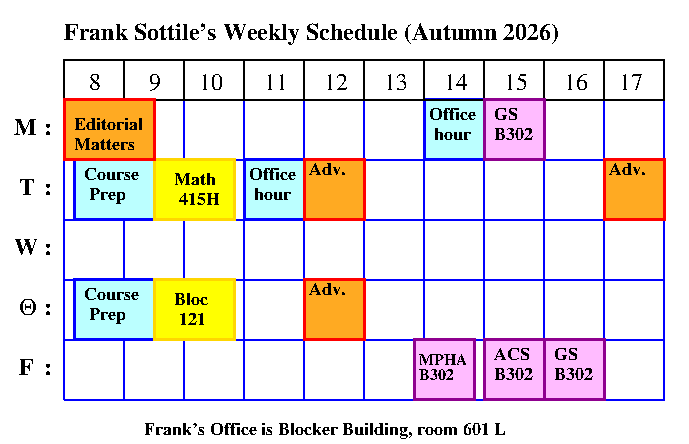
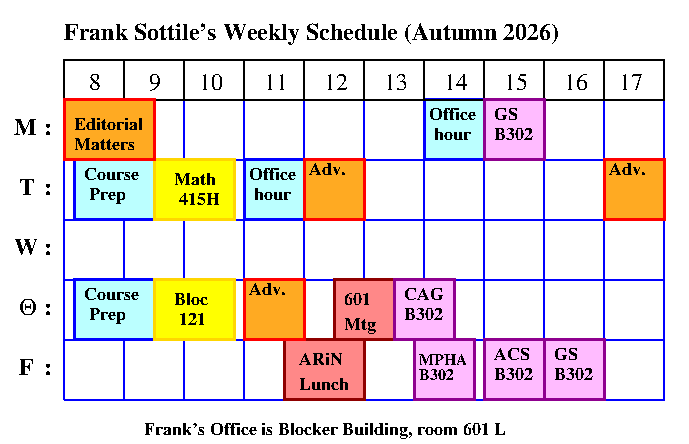
web updates

Changed region(s): [[0.3353, 0.6149, 0.6705, 0.9077]]

diff --git a/talks.html b/talks.html
@@ -179,14 +179,13 @@
     <a href="talks/26/RDisc.txt">abstract</a>
   </li>
   <!---------------------------------------------------------------------------------------------------->
-  <!----------------------------------------------------------------
+  <!---------------------------------------------------------------------------------------------------->
   <li> 
     <FONT COLOR="AA00FF"><I>TBA</I></font>,
-    Keynote Speaker (virtual),
-    International Symposium on Current Trends in Mathematical Sciences,
-    Gombe State University, Nigeria, April 2026.
-    <a href="talks/23/SAGA.txt"></a>
-  </li>------------------------------------>
+    SUM Undergraduate seminar,
+     North Carolina State University, 28 September  2026.
+  <!--  <a href="talks/26/RDisc.txt">abstract</a>-->
+  </li>
   <!---------------------------------------------------------------------------------------------------->
    <!--------------------------------------------------------------------------------------------------->
 </ul>
@@ -525,7 +524,7 @@
 
 <hr>
 <!---------------------------------------------------------------------------->
-<p>Last modified: Mon Sep 29 12:42:49 CDT 2025 by sottile</p>  
+<p>Last modified: Fri Aug 21 05:21:27 CDT 2026 by sottile</p>  
 <!---------------------------------------------------------------------------->
 </body> </html>
 

diff --git a/index.html b/index.html
@@ -85,13 +85,10 @@
   <TR>
     <TD colspan=2 width=550 align=center>
    <!--------------------------------------------------------------------------------->   
-   <!------   This is to fit in the rotation and cerdits  ---------------------------->   
+   <!------   This is to fit in the rotation and credits  ---------------------------->   
      <table> 
-       <tr valign=bottom><td><a href="Frank.html"><IMG SRC="images/frank.jpg" onmouseover="this.src='images/frank/frank_23.jpg';" ALT="Great American Eclipse 2024"></a><br>
-	  <!-- Solar Eclipse, 08-04-2024 in Hot Springs AK-->
-	 <!--<IMG SRC="images/frank.jpg" ALT="Grand Canyon March 2023"></a><br>  Photo Credit: Taylor Brysiewicz-->  
- <!--   </td><td>&nbsp;</td>
-   <td valign=right class="rotate">Photo: Sarah Witherspoon</td>-->
+       <tr valign=bottom><td><a href="Frank.html"><IMG SRC="images/frank.jpg" onmouseover="this.src='images/frank/frank_26.jpg';" ALT="Majorica August 2026"></a><br>
+	  <!-- Selene fighting with Helios while both losing to Poseiden-->
    </tr></table>
   <!----------------->
   </TR>

diff --git a/Frank.html b/Frank.html
@@ -6,6 +6,10 @@
 <table>
  <tr valign=top>
    <td>
+    <IMG height=300 SRC="images/frank/frank_26.jpg" ALT="Snorkeling on Majorica"><br>
+     Snorkeling on Majorica<br>August 2026
+  </td>
+   <td>
     <IMG height=300 SRC="images/frank/frank_KB_25.jpg" ALT="Mit Klein Flasche"><br>
      mit Kleinsche Fl&auml;che<br>March 2025
   </td>
@@ -17,13 +21,13 @@
     <IMG height=300 SRC="images/frank/frank_22.jpg" ALT="Dead Tree in Davis Mountains with arm sling"><br>
      Tree in Davis Mountains with<br> Arm Sling, March 2022
   </td>
+ </tr>
+ <!---------------------------------------->
+ <tr valign=top>
    <td>
     <IMG height=300 SRC="images/frank/frank_20.jpg" ALT="Giant White Squill"></a><br>
      With Giant White Squill, August 2020
   </td>
- </tr>
- <!---------------------------------------->
- <tr valign=top>
   <td>
     <IMG SRC="images/frank/frank_19J.jpg" ALT="Andorra June 2019"><br>
      &nbsp; &nbsp;Vall del Madriu-Perafita-Claror, June 2019
